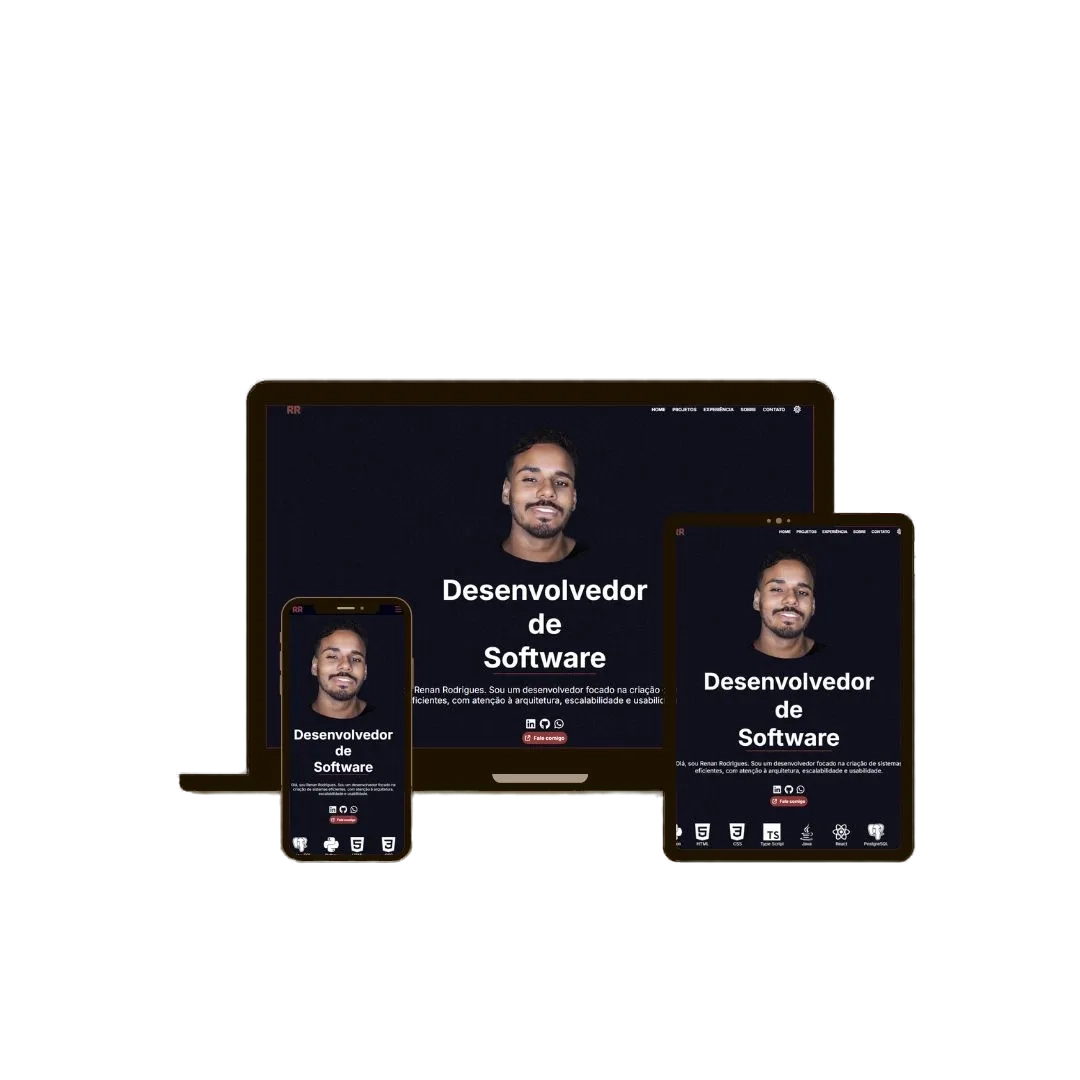
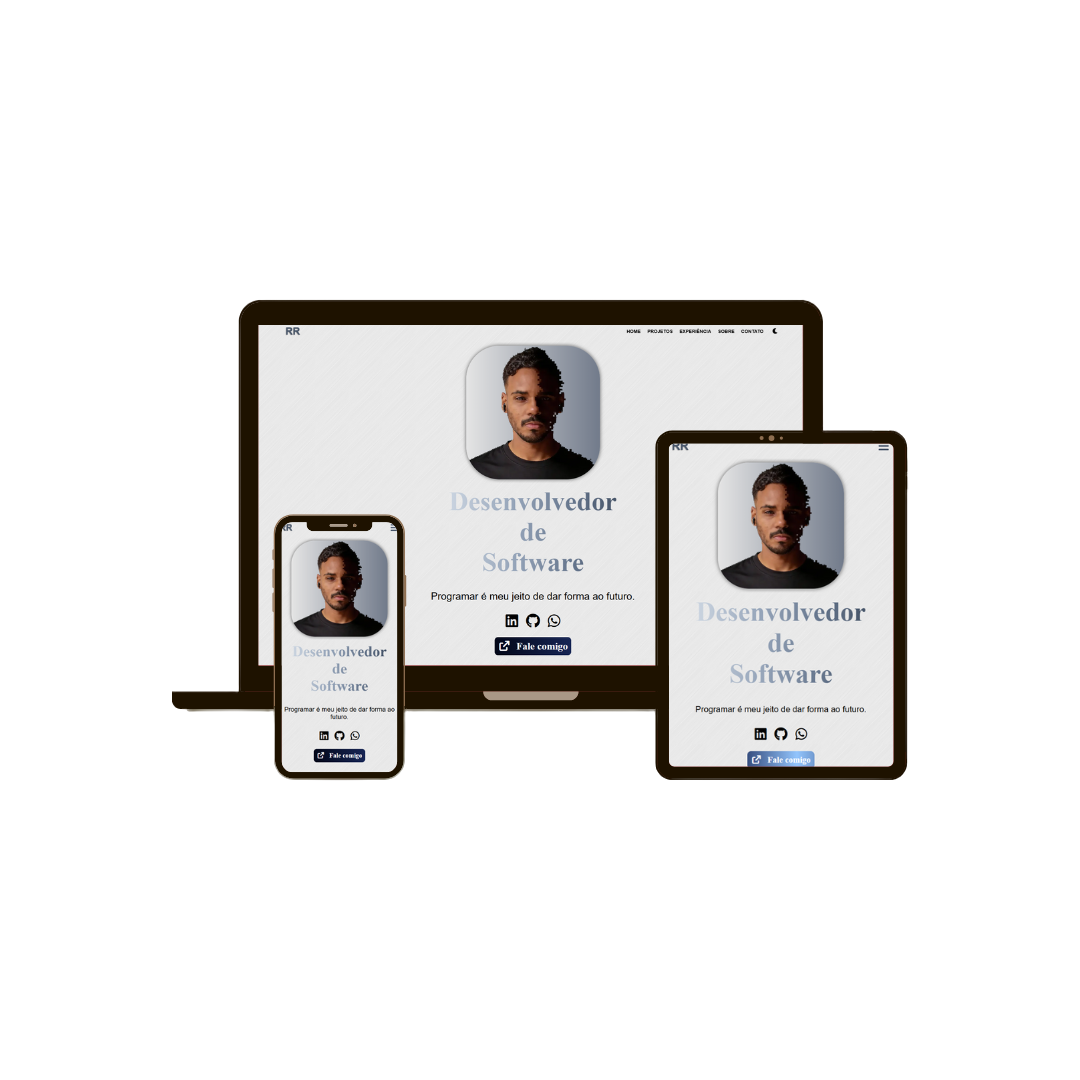
docs: Alterar mockup portfolio e corrigir texto da faculdade

Changed region(s): [[0.1528, 0.275, 0.8556, 0.825]]

diff --git a/index.html b/index.html
@@ -319,9 +319,8 @@ Destaco também meus aprendizados em modelagem de dados relacionais (ER/DER).</p
 
           </h2>
           <time datetime="2024">Mar de 2024 </time><time datetime="2026">a Dez de 2026</time>
-          <p>Meu tempo no Senac durante o programa de Aprendizagem, contribuiu muito para o meu crescimento pessoal e profissional.
-             Desenvolvi habilidades importantes
-          como comunicação eficaz, trabalho em equipe e proatividade. </p>      
+          <p>Atualmente curso ADS, adquirindo conhecimentos em programação, estrutura de dados e desenvolvimento web, mobile e desktop. 
+            Busco aplicar esses conhecimentos em projetos práticos para evoluir na área de desenvolvimento de softwares. </p>      
         </div>
       </div>
       <div class="container-time-line">
@@ -412,7 +411,8 @@ Destaco também meus aprendizados em modelagem de dados relacionais (ER/DER).</p
       <section class="renan-rodrigues">
         <div>
           <h3 class="title-footer">Renan Rodrigues</h3>
-          <p>Em busca de uma oportunidade em desenvolvimento de software para aplicar e expandir meus
+          <p>Em busca de uma oportunidade em desenvolvimento de software para aplicar 
+             expandir meus
             conhecimentos.</p>
           <div>
             <a class="social-icon" aria-label="LinkedIn de Renan Rodrigues" href="https://www.linkedin.com/in/devrenanrodrigues/" target="_blank">

diff --git a/js/main.js b/js/main.js
@@ -14,11 +14,9 @@ document.addEventListener("DOMContentLoaded", () => {
 
   if (temaSalvo === "escuro") {
     alterarTema();
-  } else if (!temaSalvo) {
-    const prefereEscuro = window.matchMedia('(prefers-color-scheme: dark)').matches;
-    if (prefereEscuro) alterarTema();
   }
 });
+
 
 function alterarTema() {
   body.classList.toggle("modo-escuro");
